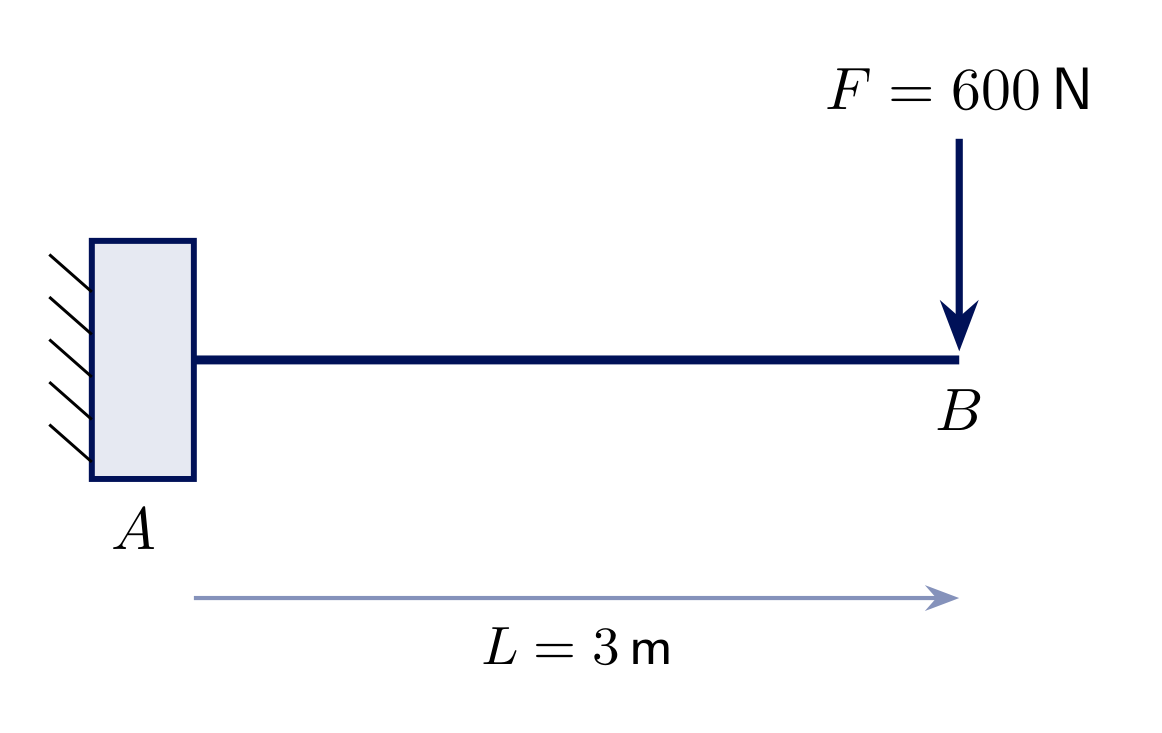
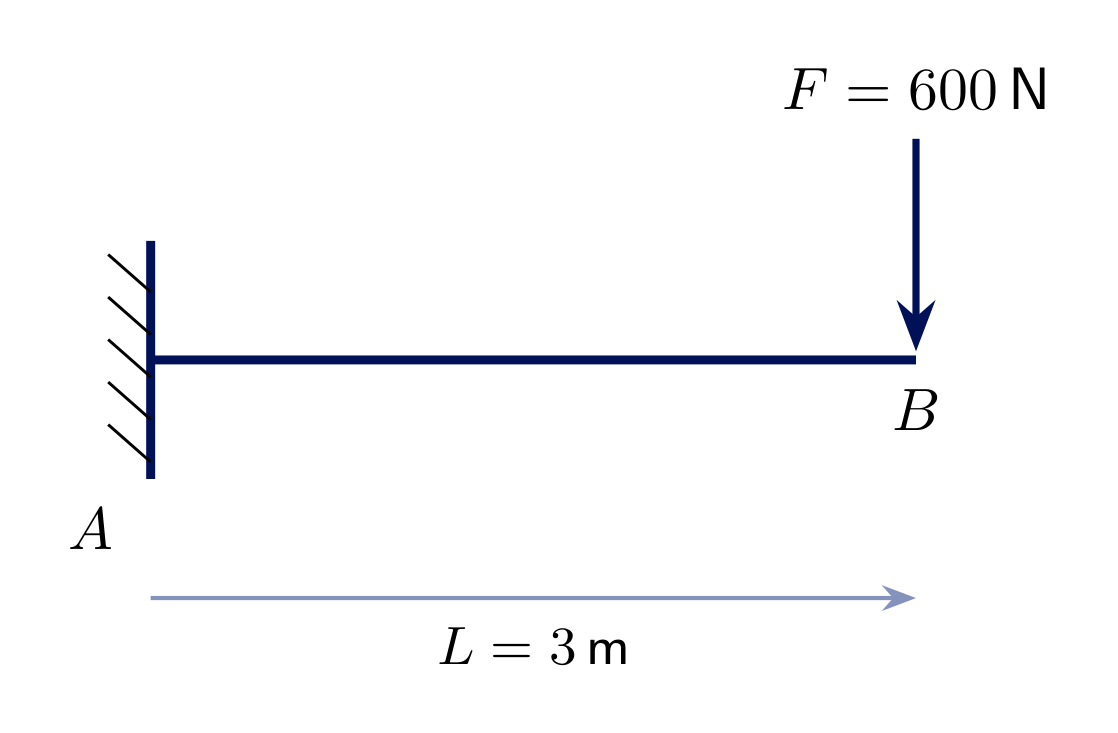
update

diff --git a/Engineering_Mechanics/e_03/assets/em_s03_ex_figs_v2.tex b/Engineering_Mechanics/e_03/assets/em_s03_ex_figs_v2.tex
@@ -23,8 +23,8 @@
 
 % ---------- Exercise 3.3: cantilever, fixed support, point load ----------
 \begin{tikzpicture}
-\fill[lightaccent, draw=mainblue, line width=1pt] (-0.6,0.7) rectangle (0,-0.7);
-\foreach \y in {-0.6,-0.35,...,0.6} {\draw[line width=0.5pt] (-0.6,\y) -- (-0.85,\y+0.22);}
+\draw[mainblue, line width=1.5pt] (0,0.7) -- (0,-0.7);
+\foreach \y in {-0.6,-0.35,...,0.6} {\draw[line width=0.5pt] (0,\y) -- (-0.25,\y+0.22);}
 \draw[line width=1.5pt, mainblue] (0,0) -- (4.5,0);
 \node[below left] at (-0.1,-0.75) {$A$};
 \node[below] at (4.5,-0.05) {$B$};
@@ -36,8 +36,8 @@
 
 % ---------- Exercise 3.4: cantilever, fixed support, inclined load ----------
 \begin{tikzpicture}
-\fill[lightaccent, draw=mainblue, line width=1pt] (-0.6,0.7) rectangle (0,-0.7);
-\foreach \y in {-0.6,-0.35,...,0.6} {\draw[line width=0.5pt] (-0.6,\y) -- (-0.85,\y+0.22);}
+\draw[mainblue, line width=1.5pt] (0,0.7) -- (0,-0.7);
+\foreach \y in {-0.6,-0.35,...,0.6} {\draw[line width=0.5pt] (0,\y) -- (-0.25,\y+0.22);}
 \draw[line width=1.5pt, mainblue] (0,0) -- (3.8,0);
 \node[above left] at (-0.1,0.75) {$A$};
 \node[above] at (3.8,0.05) {$B$};

diff --git a/Engineering_Mechanics/e_03/assets/em_s03_figs_v2.tex b/Engineering_Mechanics/e_03/assets/em_s03_figs_v2.tex
@@ -56,7 +56,7 @@
 \begin{tikzpicture}
 \node[align=center] at (-0.3,1.55) {\textbf{Einspannung}\\[-2pt]\small (fixed support)};
 \draw[line width=1.5pt, mainblue] (-1.6,0) -- (0,0);
-\fill[lightaccent, draw=mainblue, line width=1pt] (0,0.6) rectangle (0.6,-0.6);
+\draw[mainblue, line width=1.5pt] (0,0.6) -- (0,-0.6);
 \foreach \y in {-0.5,-0.25,...,0.5} {\draw[line width=0.5pt] (0,\y) -- (0.2,\y+0.2);}
 \draw[accent, -{Stealth[length=3mm]}, line width=1pt] (-0.3,-1.15) -- (-0.3,-1.65);
 \node[accent] at (1.05,-1.4) {\small \emph{freigeschnitten}};
